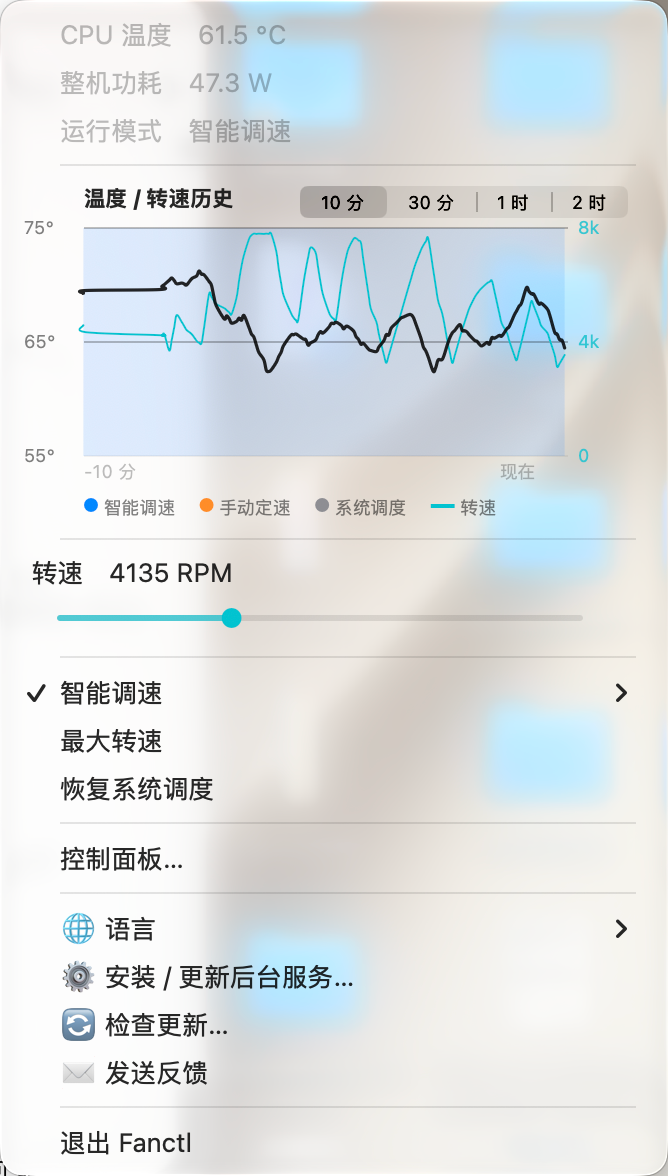
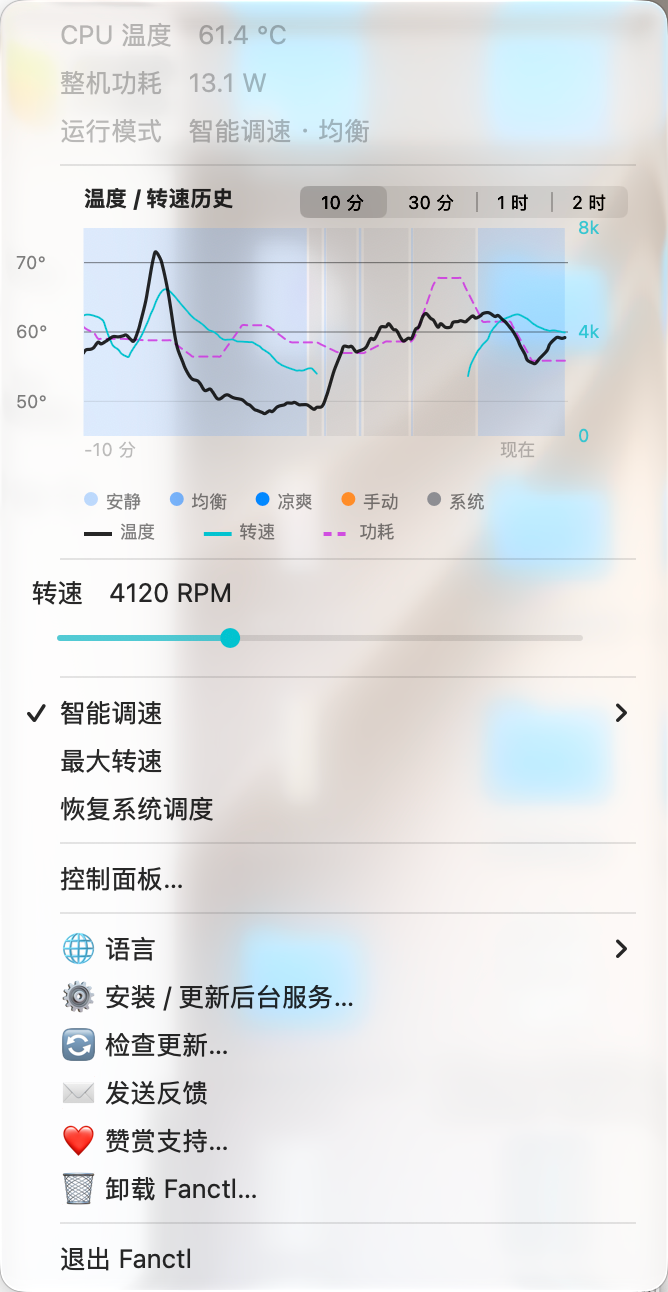
docs: fresh menu panel screenshots (en/zh) + status bar item shot
Panels re-captured on 2.5.2 (English UI for README.md, Chinese for
README.zh-CN.md); tiny status-bar item image inlined in the app
feature list.

Claude-Session: https://claude.ai/code/session_01KMYvw2gzxWKVQ6thP5spjq

diff --git a/README.md b/README.md
@@ -97,7 +97,7 @@ Three small programs, each doing one job:
 
 - 📊 **History chart** — temperature + RPM series color-coded by control mode, plus a power curve on the same axis: heat produced vs. heat removed
 - 🎛 **Dual-dot speed control** — solid dot shows live RPM, ring shows your manual setpoint
-- 🌡 **Menu bar temperature** — °C/°F follows the system preference, manual override available
+- 🌡 **Menu bar temperature & power at a glance** <img src="docs/images/statusbar.png" height="26" align="top" alt="menu bar item showing 56° and 30 W"> — °C/°F follows the system preference, manual override available
 - 🗣 **8 languages** — English, 简体中文, 日本語, 한국어, Español, Français, Deutsch, Русский
 - 🪟 **Standalone panel window** — for people who hide their menu bar
 - 🧊 **Rendering-friendly** — text redraws only on change; identical text still dirties a menu item and forces macOS to re-blur the whole translucent backdrop, which is exactly how fan utilities end up burning CPU. Fanctl doesn't.

diff --git a/README.zh-CN.md b/README.zh-CN.md
@@ -97,7 +97,7 @@ sudo ./install.sh
 
 - 📊 **历史图表** — 温度 + 转速双曲线按控制模式着色，同轴叠加功耗曲线：产热量 vs 散热量
 - 🎛 **双点调速控件** — 实心点是实时转速，圆环是你的手动设定值
-- 🌡 **菜单栏温度** — 摄氏/华氏跟随系统偏好，可手动覆盖
+- 🌡 **菜单栏温度 + 功耗一眼可见** <img src="docs/images/statusbar.png" height="26" align="top" alt="菜单栏显示 56° 与 30W"> — 摄氏/华氏跟随系统偏好，可手动覆盖
 - 🗣 **8 种语言** — 简体中文、English、日本語、한국어、Español、Français、Deutsch、Русский
 - 🪟 **独立控制面板窗口** — 给隐藏菜单栏的人用
 - 🧊 **渲染友好** — 文本不变不重绘；给菜单项赋相同文本仍会标脏、逼 macOS 重算整块毛玻璃背景——风扇类工具烧 CPU 多半烧在这里，Fanctl 不会
